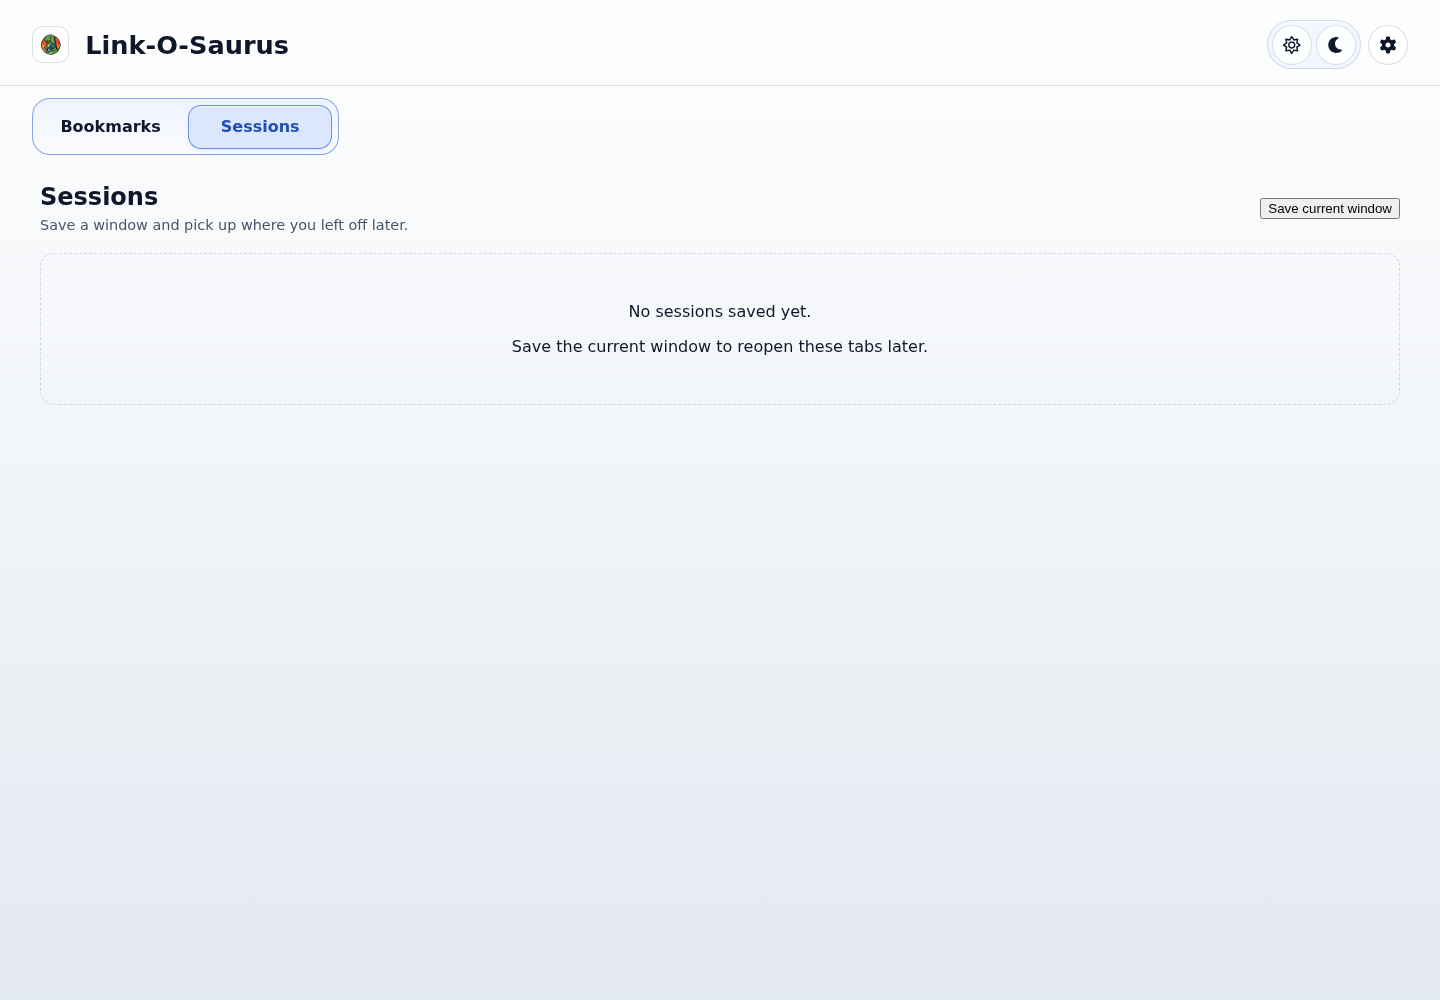
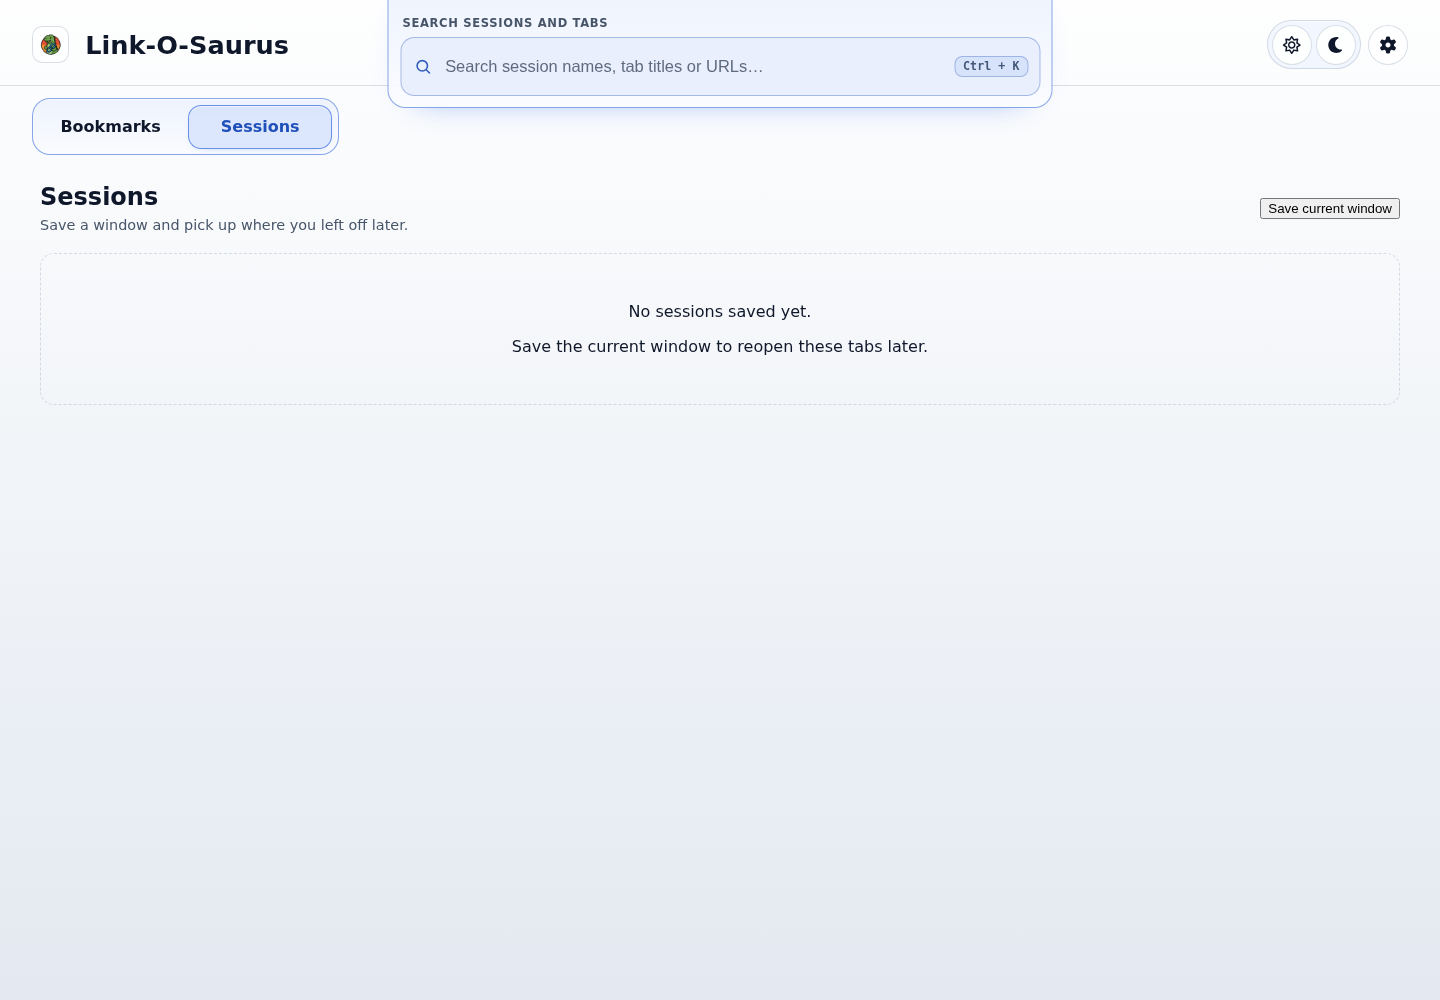
[Link-O-Saurus] Search sessions and saved tabs

Changed region(s): [[0.2812, 0.031, 0.7188, 0.124], [0.2812, 0.0, 0.4375, 0.031]]

diff --git a/extension/src/dashboard/components/SessionWorkspace.tsx b/extension/src/dashboard/components/SessionWorkspace.tsx
@@ -3,6 +3,7 @@ import { useEffect, useMemo, useState } from 'preact/hooks';
 import type { SessionPack } from '../../shared/types';
 import { translateText, useI18n } from '../../shared/i18n';
 import { getAllSessionTabIndexes, toggleSessionTabIndex } from '../session-selection';
+import { filterSessions, getVisibleSessionTabIndexes } from '../session-search';
 
 export type SessionRestoreProgress = {
   total: number;
@@ -12,6 +13,7 @@ export type SessionRestoreProgress = {
 
 type SessionWorkspaceProps = {
   readonly sessions: readonly SessionPack[];
+  readonly searchQuery: string;
   readonly busy: boolean;
   readonly error: string | null;
   readonly success: string | null;
@@ -26,6 +28,7 @@ const formatSavedAt = (timestamp: number, locale: string): string => new Date(ti
 
 export const SessionWorkspace: FunctionalComponent<SessionWorkspaceProps> = ({
   sessions,
+  searchQuery,
   busy,
   error,
   success,
@@ -42,9 +45,14 @@ export const SessionWorkspace: FunctionalComponent<SessionWorkspaceProps> = ({
   );
   const [lastFirstSessionId, setLastFirstSessionId] = useState<string | null>(sessions[0]?.id ?? null);
   const [confirmDeleteId, setConfirmDeleteId] = useState<string | null>(null);
+  const visibleSessions = useMemo(() => filterSessions(sessions, searchQuery), [sessions, searchQuery]);
   const selectedSession = useMemo(
-    () => sessions.find((session) => session.id === selectedSessionId) ?? sessions[0] ?? null,
-    [sessions, selectedSessionId],
+    () => visibleSessions.find((session) => session.id === selectedSessionId) ?? visibleSessions[0] ?? null,
+    [visibleSessions, selectedSessionId],
+  );
+  const visibleTabIndexes = useMemo(
+    () => selectedSession ? getVisibleSessionTabIndexes(selectedSession, searchQuery) : [],
+    [selectedSession, searchQuery],
   );
 
   const firstSessionId = sessions[0]?.id ?? null;
@@ -96,10 +104,14 @@ export const SessionWorkspace: FunctionalComponent<SessionWorkspaceProps> = ({
           <p>{translateText('Noch keine Sessions gespeichert.', locale)}</p>
           <p>{translateText('Speichere das aktuelle Fenster, um Tabs später wieder zu öffnen.', locale)}</p>
         </div>
+      ) : visibleSessions.length === 0 ? (
+        <div className="session-workspace-empty">
+          <p>{translateText('Keine passenden Sessions oder Tabs gefunden.', locale)}</p>
+        </div>
       ) : (
         <div className="session-workspace-grid">
           <ul className="session-workspace-list" aria-label={translateText('Gespeicherte Sessions', locale)}>
-            {sessions.map((session) => (
+            {visibleSessions.map((session) => (
               <li key={session.id}>
                 <button
                   type="button"
@@ -142,35 +154,45 @@ export const SessionWorkspace: FunctionalComponent<SessionWorkspaceProps> = ({
                 <label>
                   <input
                     type="checkbox"
-                    checked={selectedTabIndexes.size === selectedSession.tabs.length}
-                    onChange={(event) => setSelectedTabIndexes(
-                      event.currentTarget.checked
-                        ? new Set(getAllSessionTabIndexes(selectedSession.tabs.length))
-                        : new Set(),
-                    )}
+                    checked={visibleTabIndexes.length > 0 && visibleTabIndexes.every((index) => selectedTabIndexes.has(index))}
+                    onChange={(event) => {
+                      const checked = event.currentTarget.checked;
+                      setSelectedTabIndexes((previous) => {
+                        const next = new Set(previous);
+                        visibleTabIndexes.forEach((index) => checked ? next.add(index) : next.delete(index));
+                        return next;
+                      });
+                    }}
                   />
-                  {translateText('Alle Tabs auswählen', locale)}
+                  {translateText(searchQuery.trim() ? 'Alle angezeigten Tabs auswählen' : 'Alle Tabs auswählen', locale)}
                 </label>
                 <ul>
-                  {selectedSession.tabs.map((tab, index) => (
-                    <li key={`${selectedSession.id}-${index}`}>
-                      <label>
-                        <input
-                          type="checkbox"
-                          checked={selectedTabIndexes.has(index)}
-                          onChange={() => setSelectedTabIndexes((previous) => toggleSessionTabIndex(previous, index, selectedSession.tabs.length))}
-                        />
-                        <span>
-                          <strong>{tab.title || tab.url}</strong>
-                          <small>{tab.url}</small>
-                        </span>
-                      </label>
-                    </li>
-                  ))}
+                  {visibleTabIndexes.map((index) => {
+                    const tab = selectedSession.tabs[index];
+                    return (
+                      <li key={`${selectedSession.id}-${index}`}>
+                        <label>
+                          <input
+                            type="checkbox"
+                            checked={selectedTabIndexes.has(index)}
+                            onChange={() => setSelectedTabIndexes((previous) => toggleSessionTabIndex(previous, index, selectedSession.tabs.length))}
+                          />
+                          <span>
+                            <strong>{tab.title || tab.url}</strong>
+                            <small>{tab.url}</small>
+                          </span>
+                        </label>
+                      </li>
+                    );
+                  })}
                 </ul>
               </div>
               <footer className="session-workspace-actions">
-                <button type="button" onClick={() => onRestoreSelected(selectedSession, [...selectedTabIndexes].sort((a, b) => a - b))} disabled={busy || selectedTabIndexes.size === 0}>
+                <button
+                  type="button"
+                  onClick={() => onRestoreSelected(selectedSession, visibleTabIndexes.filter((index) => selectedTabIndexes.has(index)))}
+                  disabled={busy || !visibleTabIndexes.some((index) => selectedTabIndexes.has(index))}
+                >
                   {translateText('Ausgewählte im aktuellen Fenster öffnen', locale)}
                 </button>
                 <button type="button" onClick={() => onRestoreAll(selectedSession)} disabled={busy}>

diff --git a/extension/src/dashboard/components/DashboardHeader.tsx b/extension/src/dashboard/components/DashboardHeader.tsx
@@ -6,7 +6,8 @@ import linkOSaurusIcon from '../../../assets/link-o-saurus-icon.png';
 type ThemeChoice = UserSettings['theme'];
 
 type DashboardHeaderProps = {
-  readonly showSearch?: boolean;
+  readonly searchLabel: string;
+  readonly searchPlaceholder: string;
   readonly searchInputRef: RefObject<HTMLInputElement>;
   readonly searchQuery: string;
   readonly isSearchFocused: boolean;
@@ -32,7 +33,8 @@ const FontAwesomeIcon: FunctionalComponent<{ readonly name: string; readonly sty
 );
 
 export const DashboardHeader: FunctionalComponent<DashboardHeaderProps> = ({
-  showSearch = true,
+  searchLabel,
+  searchPlaceholder,
   isSearchActive,
   isSearchFocused,
   onOpenSettings,
@@ -52,7 +54,7 @@ export const DashboardHeader: FunctionalComponent<DashboardHeaderProps> = ({
     <div className="header-titles">
       <h1>Link-O-Saurus</h1>
     </div>
-    {showSearch ? <div className="header-actions">
+    <div className="header-actions">
       <label
         className={combineClassNames(
           'search-field',
@@ -63,7 +65,7 @@ export const DashboardHeader: FunctionalComponent<DashboardHeaderProps> = ({
         )}
       >
         <br></br>
-        <span className="search-field-label">Dashboard durchsuchen</span>
+        <span className="search-field-label">{searchLabel}</span>
         <span className="search-input-shell">
           <span className="search-input-icon" aria-hidden="true">
             <SearchIcon />
@@ -75,15 +77,15 @@ export const DashboardHeader: FunctionalComponent<DashboardHeaderProps> = ({
             onInput={onSearchChange}
             onFocus={onSearchFocus}
             onBlur={onSearchBlur}
-            placeholder="Suche nach Titeln, URLs, Tags oder Notizen…"
-            aria-label="Dashboard durchsuchen"
+            placeholder={searchPlaceholder}
+            aria-label={searchLabel}
           />
           <kbd className="search-shortcut-hint" aria-hidden="true">
             {shortcutHint}
           </kbd>
         </span>
       </label>
-    </div> : null}
+    </div>
     <div className="header-utility-actions" role="group" aria-label="Darstellung und Einstellungen">
       <div className="header-theme-toggle-group" role="group" aria-label="Theme auswählen">
         <button

diff --git a/extension/src/dashboard/session-search.test.ts b/extension/src/dashboard/session-search.test.ts
@@ -1,0 +1,34 @@
+import { describe, expect, it } from 'vitest';
+import { filterSessions, getVisibleSessionTabIndexes } from './session-search';
+
+const sessions = [
+  { id: 'work', title: 'Work', savedAt: 1, tabs: [{ title: 'Calendar', url: 'https://calendar.example' }] },
+  {
+    id: 'reading',
+    title: 'Reading list',
+    savedAt: 2,
+    tabs: [
+      { title: 'Research notes', url: 'https://papers.example/topic' },
+      { title: 'News', url: 'https://news.example' },
+    ],
+  },
+];
+
+describe('session search', () => {
+  it('matches session titles and tab titles or URLs case-insensitively', () => {
+    expect(filterSessions(sessions, 'WORK').map(({ id }) => id)).toEqual(['work']);
+    expect(filterSessions(sessions, 'research').map(({ id }) => id)).toEqual(['reading']);
+    expect(filterSessions(sessions, 'PAPERS.EXAMPLE').map(({ id }) => id)).toEqual(['reading']);
+    expect(filterSessions(sessions, 'missing')).toEqual([]);
+  });
+
+  it('shows matching tabs unless the session title itself matched', () => {
+    expect(getVisibleSessionTabIndexes(sessions[1], 'papers.example')).toEqual([0]);
+    expect(getVisibleSessionTabIndexes(sessions[1], 'reading')).toEqual([0, 1]);
+  });
+
+  it('shows all sessions and tabs for a blank query', () => {
+    expect(filterSessions(sessions, '  ')).toEqual(sessions);
+    expect(getVisibleSessionTabIndexes(sessions[1], '')).toEqual([0, 1]);
+  });
+});

diff --git a/extension/src/shared/i18n/index.tsx b/extension/src/shared/i18n/index.tsx
@@ -73,6 +73,8 @@ const translations: Record<string, string> = {
   'Sessions verwalten': 'Manage sessions',
   'Gespeicherte Sessions': 'Saved sessions',
   'Alle Tabs auswählen': 'Select all tabs',
+  'Alle angezeigten Tabs auswählen': 'Select all matching tabs',
+  'Keine passenden Sessions oder Tabs gefunden.': 'No matching sessions or tabs found.',
   'Ausgewählte im aktuellen Fenster öffnen': 'Open selected in current window',
   'Alle in neuem Fenster öffnen': 'Open all in new window',
   'Session löschen?': 'Delete session?',
@@ -130,6 +132,8 @@ const translations: Record<string, string> = {
   'Wähle ein Lesezeichen aus, um Details zu bearbeiten oder Batch-Aktionen auszuführen.': 'Select a bookmark to edit its details or run batch actions.',
   'Dashboard durchsuchen': 'Search dashboard',
   'Suche nach Titeln, URLs, Tags oder Notizen…': 'Search titles, URLs, tags or notes…',
+  'Sessions und Tabs durchsuchen': 'Search sessions and tabs',
+  'Suche nach Sitzungsnamen, Tab-Titeln oder URLs…': 'Search session names, tab titles or URLs…',
   'Theme auswählen': 'Choose theme',
   'Light-Mode aktivieren': 'Enable light mode',
   'Light-Mode': 'Light mode',

diff --git a/extension/src/dashboard/session-search.ts b/extension/src/dashboard/session-search.ts
@@ -1,0 +1,25 @@
+import type { SessionPack } from '../shared/types';
+
+const normalizeQuery = (query: string): string => query.trim().toLowerCase();
+
+export const getVisibleSessionTabIndexes = (session: SessionPack, query: string): number[] => {
+  const normalizedQuery = normalizeQuery(query);
+  if (!normalizedQuery || session.title.toLowerCase().includes(normalizedQuery)) {
+    return session.tabs.map((_tab, index) => index);
+  }
+
+  return session.tabs.flatMap((tab, index) =>
+    tab.title?.toLowerCase().includes(normalizedQuery) || tab.url.toLowerCase().includes(normalizedQuery) ? [index] : [],
+  );
+};
+
+export const filterSessions = (sessions: readonly SessionPack[], query: string): readonly SessionPack[] => {
+  const normalizedQuery = normalizeQuery(query);
+  if (!normalizedQuery) {
+    return sessions;
+  }
+
+  return sessions.filter((session) =>
+    session.title.toLowerCase().includes(normalizedQuery) || getVisibleSessionTabIndexes(session, normalizedQuery).length > 0,
+  );
+};

diff --git a/extension/src/dashboard/App.tsx b/extension/src/dashboard/App.tsx
@@ -1806,7 +1806,13 @@ const DashboardApp: FunctionalComponent = () => {
       )}
     >
       <DashboardHeader
-        showSearch={activeView === 'bookmarks'}
+        searchLabel={translateText(activeView === 'sessions' ? 'Sessions und Tabs durchsuchen' : 'Dashboard durchsuchen', locale)}
+        searchPlaceholder={translateText(
+          activeView === 'sessions'
+            ? 'Suche nach Sitzungsnamen, Tab-Titeln oder URLs…'
+            : 'Suche nach Titeln, URLs, Tags oder Notizen…',
+          locale,
+        )}
         isSearchActive={isSearchActive}
         isSearchFocused={isSearchFocused}
         onOpenSettings={handleOpenSettings}
@@ -1884,6 +1890,7 @@ const DashboardApp: FunctionalComponent = () => {
         /> : (
           <SessionWorkspace
             sessions={sessions}
+            searchQuery={searchQuery}
             busy={sessionState.busy}
             error={sessionState.error}
             success={sessionSuccess}

diff --git a/tests/e2e/extension.spec.ts b/tests/e2e/extension.spec.ts
@@ -404,6 +404,8 @@ test.describe('Link-O-Saurus extension', () => {
     await expect(viewTabs).toBeVisible();
     await viewTabs.getByRole('button', { name: 'Sessions' }).click();
     await expect(viewTabs.getByRole('button', { name: 'Sessions' })).toHaveAttribute('aria-current', 'page');
+    await expect(dashboardPage.getByRole('searchbox', { name: 'Search sessions and tabs' }))
+      .toHaveAttribute('placeholder', 'Search session names, tab titles or URLs…');
     await expect(dashboardPage.locator('.dashboard-sidebar')).toHaveCount(0);
     const sessionWorkspace = dashboardPage.locator('.session-workspace');
     await expect(sessionWorkspace).toBeVisible();
